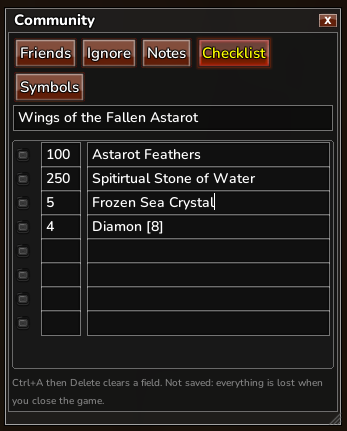
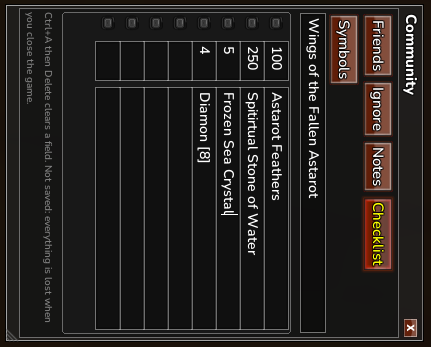
Ignore delivery zips, add release notes, update checklist image

diff --git a/RELEASE_NOTES.md b/RELEASE_NOTES.md
@@ -1,0 +1,38 @@
+## A new drop group
+
+**Talismans & Powders** — a drawstring charm pouch, gathered at the neck and embroidered all the
+way round. A bag of runestones makes more sense of the contents than one carved slab does.
+
+Covers Talismans, Lisents, Scarabs and powders — **and refine materials**, so expect noticeably
+more of these on the ground than the other groups.
+
+That makes **eleven drop groups**, six colors each.
+
+## Combat text, large
+
+The same four themes with the numbers drawn as large as the game allows — about **36% taller**.
+
+The original artwork leaves roughly a third of each number's space empty, so at any distance
+you're reading smaller digits than you need to be. This fills that space. Same colors, same
+behaviour. Available alongside the normal packs, not instead of them.
+
+## Double-size sets
+
+Every complete set again with all the models at **200%**, including Themed. Made for anyone who
+finds the normal size difficult to pick out.
+
+This exists because someone asked. If these still don't work for you, say so and I'll build
+something that does — different size, different shape, whatever helps.
+
+## Also
+
+The complete-set bundles now include the new drop group, so they cover all eleven.
+
+---
+
+Two files per pack — a texture and a mesh. No installer, no executable, nothing that can run.
+Uninstalling is deleting the files listed in each pack's `FILE_LIST.txt`.
+
+SHA-256 for every pack is in [CHECKSUMS.txt](CHECKSUMS.txt).
+
+*Previously released packs are attached here unchanged, so existing download links keep working.*
